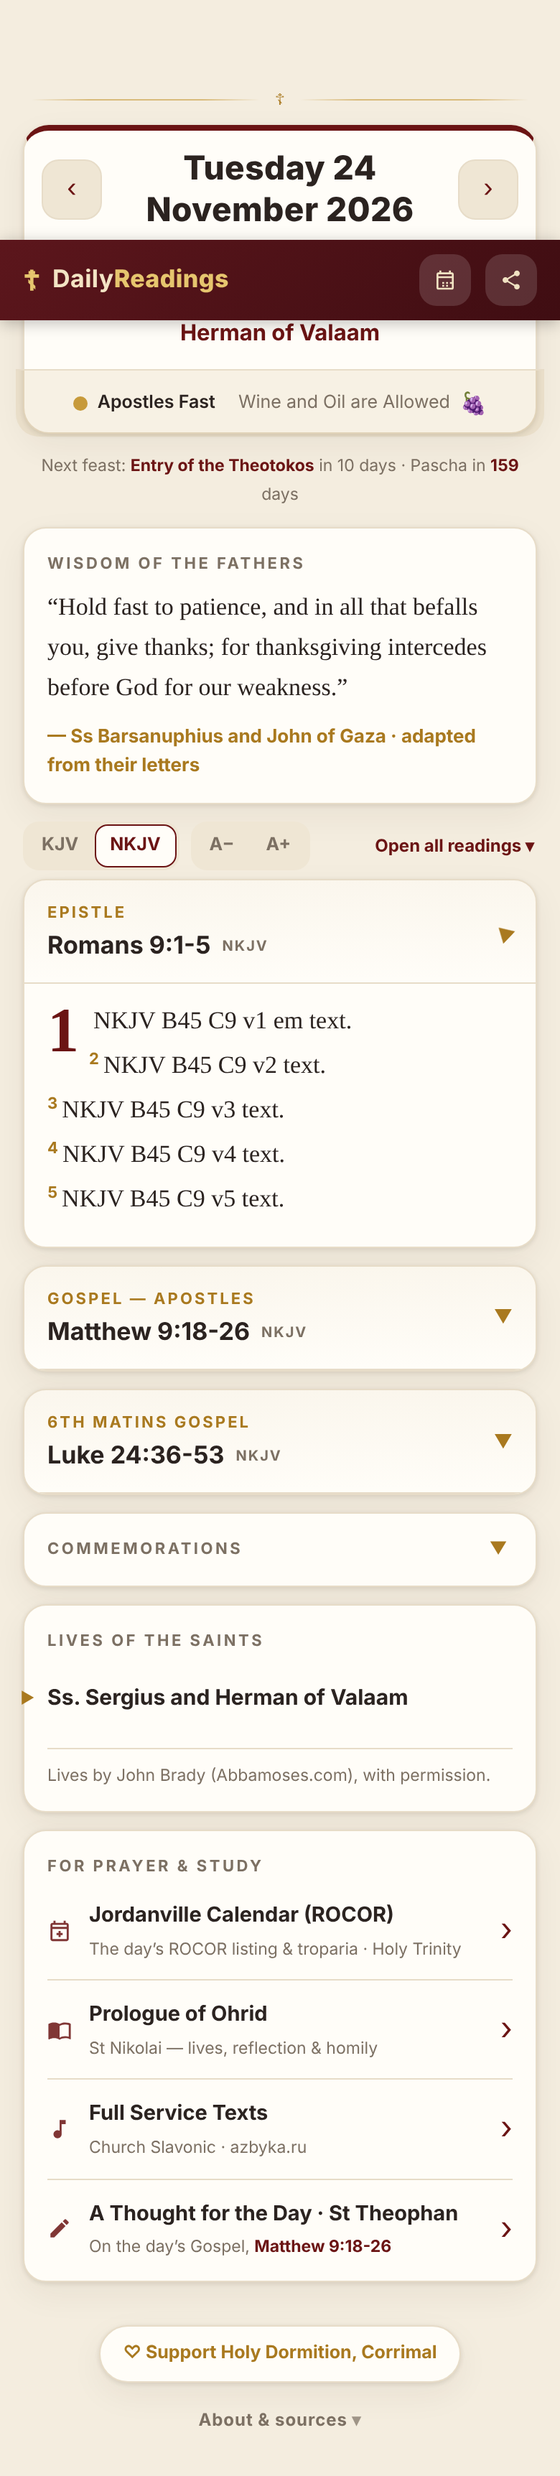
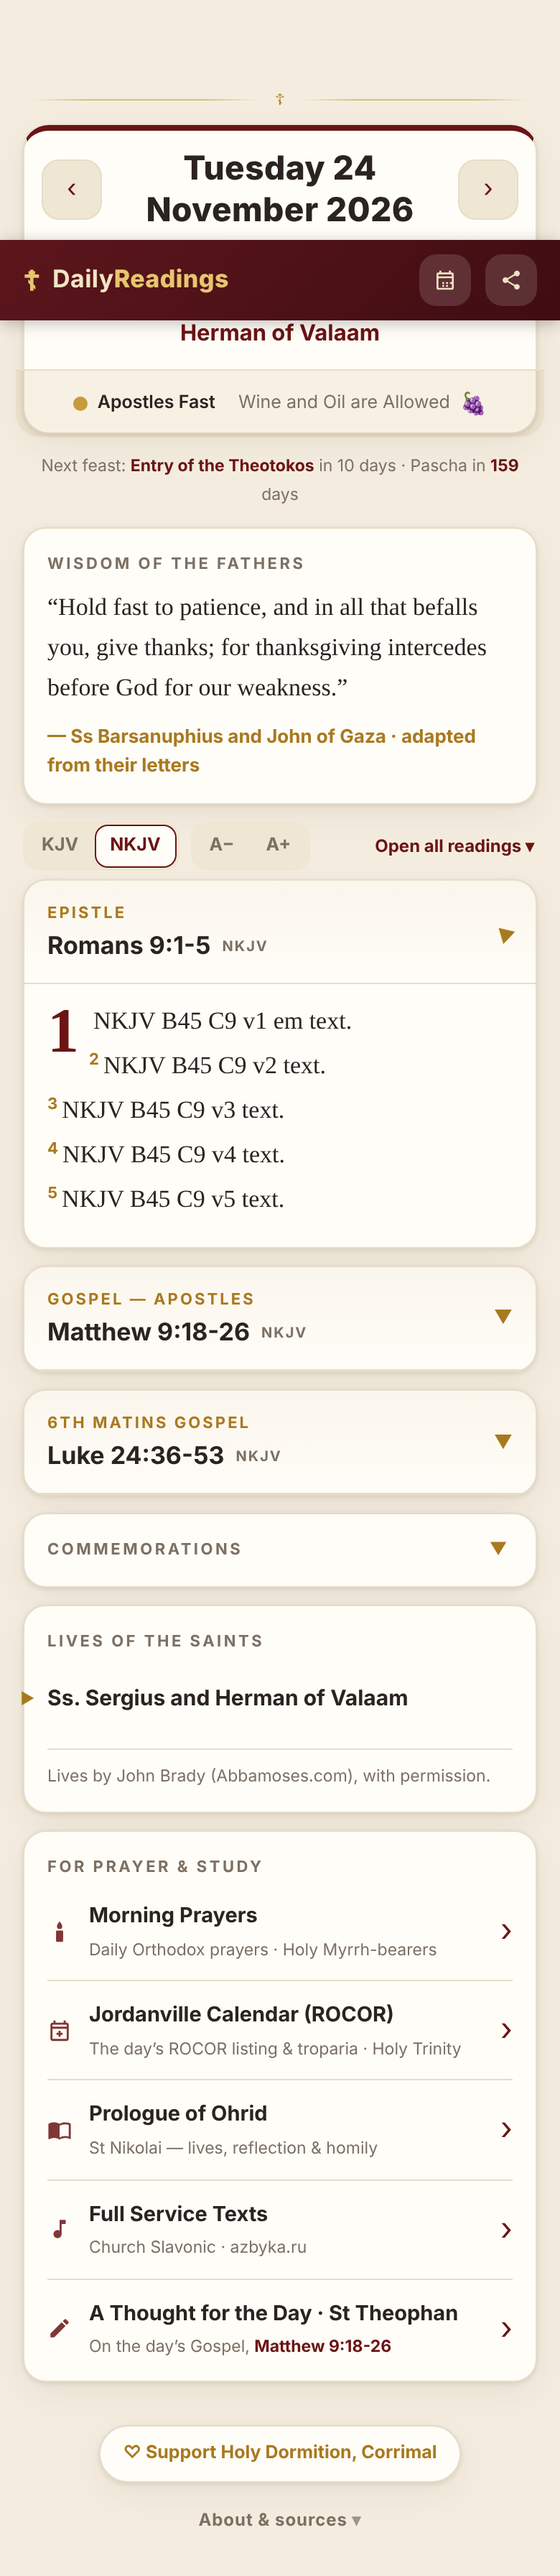
v32: tone of the week beside the Old Style date; daily prayers row (morning by day, before sleep from 4 pm)
Claude-Session: https://claude.ai/code/session_01BQrhMh6RJfXR7AMmeXuND7

diff --git a/index.html b/index.html
@@ -482,6 +482,7 @@
 
     <section class="card linksCard" id="linksCard">
       <p class="label">For Prayer &amp; Study</p>
+      <a class="lrow" id="prayersLink" href="https://www.myrrh-bearers.org/morning.htm" target="_blank" rel="noopener noreferrer" referrerpolicy="no-referrer"><span class="licon"><svg viewBox="0 0 24 24" width="17" height="17" aria-hidden="true"><path fill="currentColor" d="M12 2c1.6 2 2.6 3.4 2.6 4.8A2.6 2.6 0 0 1 12 9.4a2.6 2.6 0 0 1-2.6-2.6C9.4 5.4 10.4 4 12 2zM9.5 11h5a1 1 0 0 1 1 1v9a1 1 0 0 1-1 1h-5a1 1 0 0 1-1-1v-9a1 1 0 0 1 1-1z"/></svg></span><span class="ltxt"><span id="prayersTitle">Morning Prayers</span><small>Daily Orthodox prayers · Holy Myrrh-bearers</small></span><span class="larr">›</span></a>
       <a class="lrow" id="troparLink" href="https://www.holytrinityorthodox.com/calendar/" target="_blank" rel="noopener noreferrer" referrerpolicy="no-referrer"><span class="licon"><svg viewBox="0 0 24 24" width="17" height="17" aria-hidden="true"><path fill="currentColor" d="M19 4h-1V2h-2v2H8V2H6v2H5c-1.1 0-2 .9-2 2v14c0 1.1.9 2 2 2h14c1.1 0 2-.9 2-2V6c0-1.1-.9-2-2-2zm0 16H5V10h14v10zM5 8V6h14v2H5zm6 4h2v2h2v2h-2v2h-2v-2H9v-2h2v-2z"/></svg></span><span class="ltxt">Jordanville Calendar (ROCOR)<small>The day’s ROCOR listing &amp; troparia · Holy Trinity</small></span><span class="larr">›</span></a>
       <a class="lrow" id="prologueLink" href="https://www.myrrh-bearers.org/prologue.htm" target="_blank" rel="noopener noreferrer" referrerpolicy="no-referrer"><span class="licon"><svg viewBox="0 0 24 24" width="17" height="17" aria-hidden="true"><path fill="currentColor" d="M21 5c-1.1-.35-2.3-.5-3.5-.5-1.95 0-4.05.4-5.5 1.5-1.45-1.1-3.55-1.5-5.5-1.5S2.45 4.9 1 6v14.65c0 .25.25.5.5.5.1 0 .15-.05.25-.05C3.1 20.45 5.05 20 6.5 20c1.95 0 4.05.4 5.5 1.5 1.35-.85 3.8-1.5 5.5-1.5 1.65 0 3.35.3 4.75 1.05.1.05.15.05.25.05.25 0 .5-.25.5-.5V6c-.6-.45-1.25-.75-2-1zm0 13.5c-1.1-.35-2.3-.5-3.5-.5-1.7 0-4.15.65-5.5 1.5V8c1.35-.85 3.8-1.5 5.5-1.5 1.2 0 2.4.15 3.5.5v11.5z"/></svg></span><span class="ltxt">Prologue of Ohrid<small>St Nikolai — lives, reflection &amp; homily</small></span><span class="larr">›</span></a>
       <span id="azbykaCard" class="hidden" style="display:block"><a class="lrow" id="azbykaLink" href="https://azbyka.ru/worships/" target="_blank" rel="noopener noreferrer" referrerpolicy="no-referrer"><span class="licon"><svg viewBox="0 0 24 24" width="17" height="17" aria-hidden="true"><path fill="currentColor" d="M12 3v10.55c-.59-.34-1.27-.55-2-.55-2.21 0-4 1.79-4 4s1.79 4 4 4 4-1.79 4-4V7h4V3h-6z"/></svg></span><span class="ltxt">Full Service Texts<small>Church Slavonic · azbyka.ru</small></span><span class="larr">›</span></a></span>
@@ -564,7 +565,8 @@
 
     // Optional alternate (Julian civil) date if the API supplies it
     var alt = data && (data.julian_calendar_date || data.date_julian || data.jdate);
-    el("altdate").textContent = tMonthDay(menaionOf(state.date)) + ", Old Style";
+    var tone = toneOfWeek(state.date);
+    el("altdate").textContent = tMonthDay(menaionOf(state.date)) + ", Old Style" + (tone ? " · Tone " + tone : "");
 
     el("summary").textContent = (data && (data.summary_title || (data.titles && data.titles[0]))) || "";
 
@@ -680,6 +682,7 @@
     applyLit(liturgicalKey(state.date, data, fdesc));
     renderLives(data);
     renderTracker(fdesc);
+    renderPrayersLink();
     el("troparLink").setAttribute("href", htmURL(state.date));
     el("prologueLink").setAttribute("href", prologueURL(state.date));
     renderAzbyka();
@@ -1002,6 +1005,27 @@
   }
 
   // ---------- Troparia link (Holy Trinity Jordanville calendar, civil-date params) ----------
+  // ---------- Tone of the week (Octoechos) ----------
+  // Thomas Sunday (Pascha + 7) begins Tone 1; the tone advances each Sunday and cycles 1–8
+  // until the next Palm Sunday. Weekdays take the tone of the preceding Sunday.
+  // No tone of the week from Palm Sunday through Bright Saturday.
+  // Verified against OrthoChristian: 1 Mar 2026 = 5, 19 Apr = 1, 26 Apr = 2, 2 Aug = 8, 22 Nov = 8, 3 Jan 2027 = 6.
+  function toneOfWeek(d){
+    var t=new Date(d.getFullYear(), d.getMonth(), d.getDate());
+    var P=paschaCivil(t.getFullYear());
+    var diff=Math.round((t-P)/86400000);
+    if(diff<-7){ P=paschaCivil(t.getFullYear()-1); diff=Math.round((t-P)/86400000); }
+    else if(diff<7) return null;
+    return ((Math.floor(diff/7)-1)%8)+1;
+  }
+
+  // ---------- Daily prayers (Holy Myrrh-bearers): morning prayers by day, prayers before sleep by evening ----------
+  function renderPrayersLink(){
+    var evening = new Date().getHours() >= 16;
+    el("prayersTitle").textContent = evening ? "Prayers Before Sleep" : "Morning Prayers";
+    el("prayersLink").setAttribute("href", "https://www.myrrh-bearers.org/" + (evening ? "evening.htm" : "morning.htm"));
+  }
+
   // ---------- Parish supplement: ROCOR commemorations the upstream data lacks ----------
   // Every entry is verified against OrthoChristian (the Russian-calendar reference) before
   // inclusion, keyed by the OS/menaion date, and marked ✦ in the list. If the upstream
@@ -1712,6 +1736,7 @@
   window.__azbykaURL = azbykaURL;     // exposed for automated tests
   window.__prologueURL = prologueURL; // exposed for automated tests
   window.__supplementFor = supplementFor; // exposed for automated tests
+  window.__toneOfWeek = toneOfWeek;       // exposed for automated tests
   window.__buildTile = buildTile;     // exposed for automated tests
   window.__gospelRef = findGospelRef; // exposed for automated tests
   window.__setFathers = function(f){ var old=FATHERS; FATHERS=f; renderQuote(); return old; }; // exposed for automated tests

diff --git a/test.js b/test.js
@@ -160,7 +160,7 @@ function check(name, cond){ results.push((cond?'PASS':'FAIL')+' — '+name); }
   });
   check('reading tools row holds KJV/NKJV + size + open-all', toolsVis===true && toolsOrder===true);
   const rowIcons = await page.$$eval('#linksCard .licon svg', n=>n.length);
-  check('Prayer & Study rows carry four line-icons', rowIcons===4);
+  check('Prayer & Study rows carry five line-icons', rowIcons===5);
 
   // --- content ---
   const summary = await page.textContent('#summary');
@@ -192,7 +192,25 @@ function check(name, cond){ results.push((cond?'PASS':'FAIL')+' — '+name); }
   check('About & sources folded by default', aboutClosed===true);
   const osExp = jd.getDate()+' '+['January','February','March','April','May','June','July','August','September','October','November','December'][jd.getMonth()]+', Old Style';
   const osShown = await page.textContent('#altdate');
-  check('Old Style date shown under the civil date', osShown===osExp);
+  const toneToday = await page.evaluate(()=>window.__toneOfWeek(new Date()));
+  check('Old Style date (and tone of the week) shown under the civil date', osShown===osExp+(toneToday? ' · Tone '+toneToday : ''));
+  const tones = await page.evaluate(()=>[
+    window.__toneOfWeek(new Date(2026,2,1)),   // First Sunday of Lent 2026
+    window.__toneOfWeek(new Date(2026,3,19)),  // Thomas Sunday
+    window.__toneOfWeek(new Date(2026,3,26)),  // Myrrh-bearers
+    window.__toneOfWeek(new Date(2026,7,2)),   // 9th Sunday after Pentecost
+    window.__toneOfWeek(new Date(2026,10,24)), // Tuesday of the 26th week
+    window.__toneOfWeek(new Date(2027,0,3)),   // 31st Sunday after Pentecost
+    window.__toneOfWeek(new Date(2026,3,5)),   // Palm Sunday: none
+    window.__toneOfWeek(new Date(2026,3,12)),  // Pascha: none
+    window.__toneOfWeek(new Date(2026,3,18))   // Bright Saturday: none
+  ]);
+  check('tone of the week matches OrthoChristian on six dates', tones.slice(0,6).join(',')==='5,1,2,8,8,6');
+  check('no tone from Palm Sunday through Bright Saturday', tones[6]===null && tones[7]===null && tones[8]===null);
+  const prayers = await page.evaluate(()=>({ t:document.getElementById('prayersTitle').textContent, h:document.getElementById('prayersLink').getAttribute('href'), hr:new Date().getHours() }));
+  check('daily prayers row follows the time of day', prayers.hr>=16
+    ? (prayers.t==='Prayers Before Sleep' && /evening\.htm$/.test(prayers.h))
+    : (prayers.t==='Morning Prayers' && /morning\.htm$/.test(prayers.h)));
   check('footer: corrected sources (Slavic tradition + Abbamoses)', /Slavic Old-Calendar tradition/.test(footerText) && /Abbamoses/.test(footerText) && !/Jordanville\./.test(footerText.split('Lives')[0]));
   check('Troparia row names Holy Trinity calendar', /Holy Trinity/.test(troparAttr));
 
@@ -206,7 +224,7 @@ function check(name, cond){ results.push((cond?'PASS':'FAIL')+' — '+name); }
   });
   check('order: Wisdom before readings', order.qb===true);
   check('order: readings before commemorations', order.rb===true);
-  check('combined links card below with 4 rows (incl. Prologue)', order.cb===true && order.rows===4);
+  check('combined links card below with 5 rows (prayers first)', order.cb===true && order.rows===5);
 
   // --- commemorations: collapsed by default, expand on tap ---
   const commClosed = await page.$eval('#commemList', e=>getComputedStyle(e).display==='none');

diff --git a/sw.js b/sw.js
@@ -1,5 +1,5 @@
 /* Minimal offline shell. Data caching is handled in-page via localStorage. */
-var CACHE = "orthodox-readings-v31";
+var CACHE = "orthodox-readings-v32";
 var ASSETS = [
   "./", "./index.html", "./manifest.webmanifest", "./fathers.json",
   "./icon-192.png", "./icon-512.png", "./apple-touch-icon.png", "./favicon-32.png"
